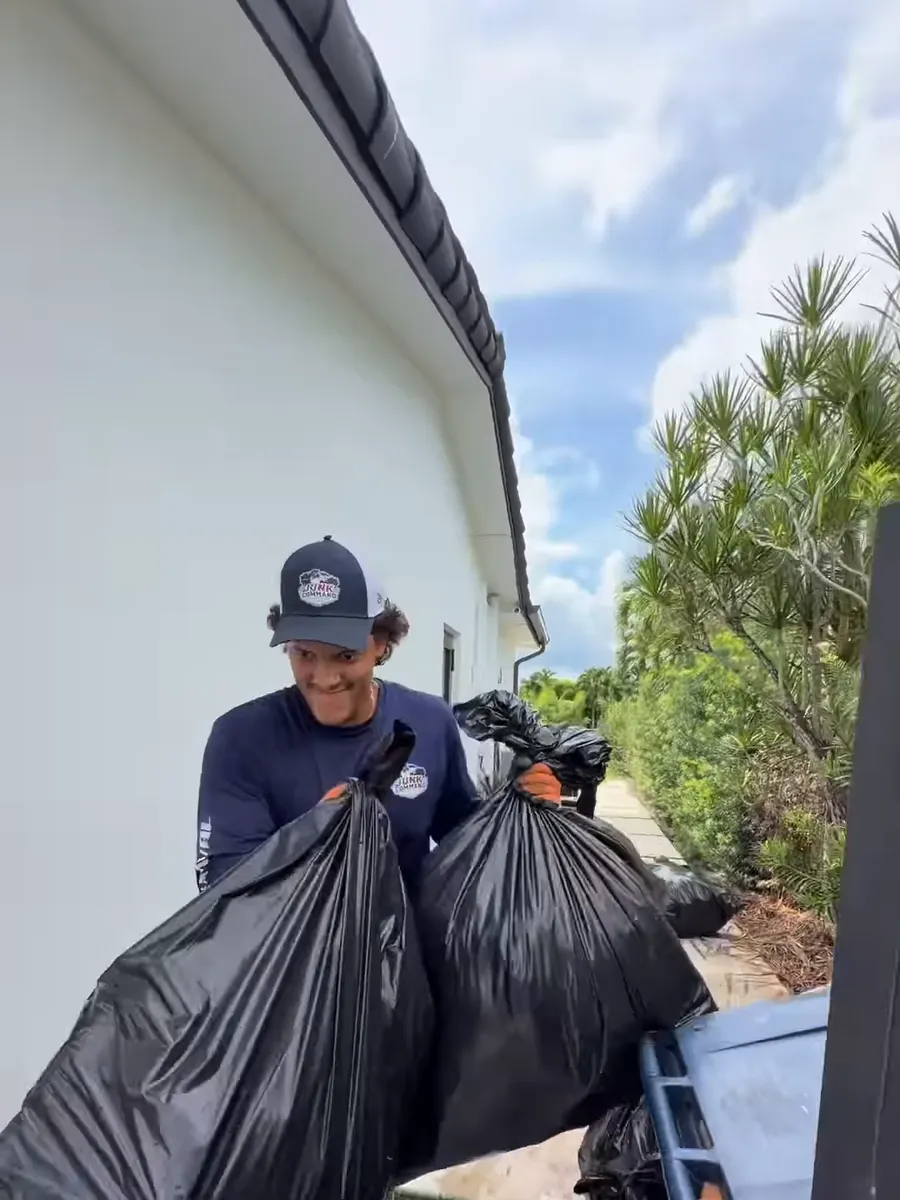
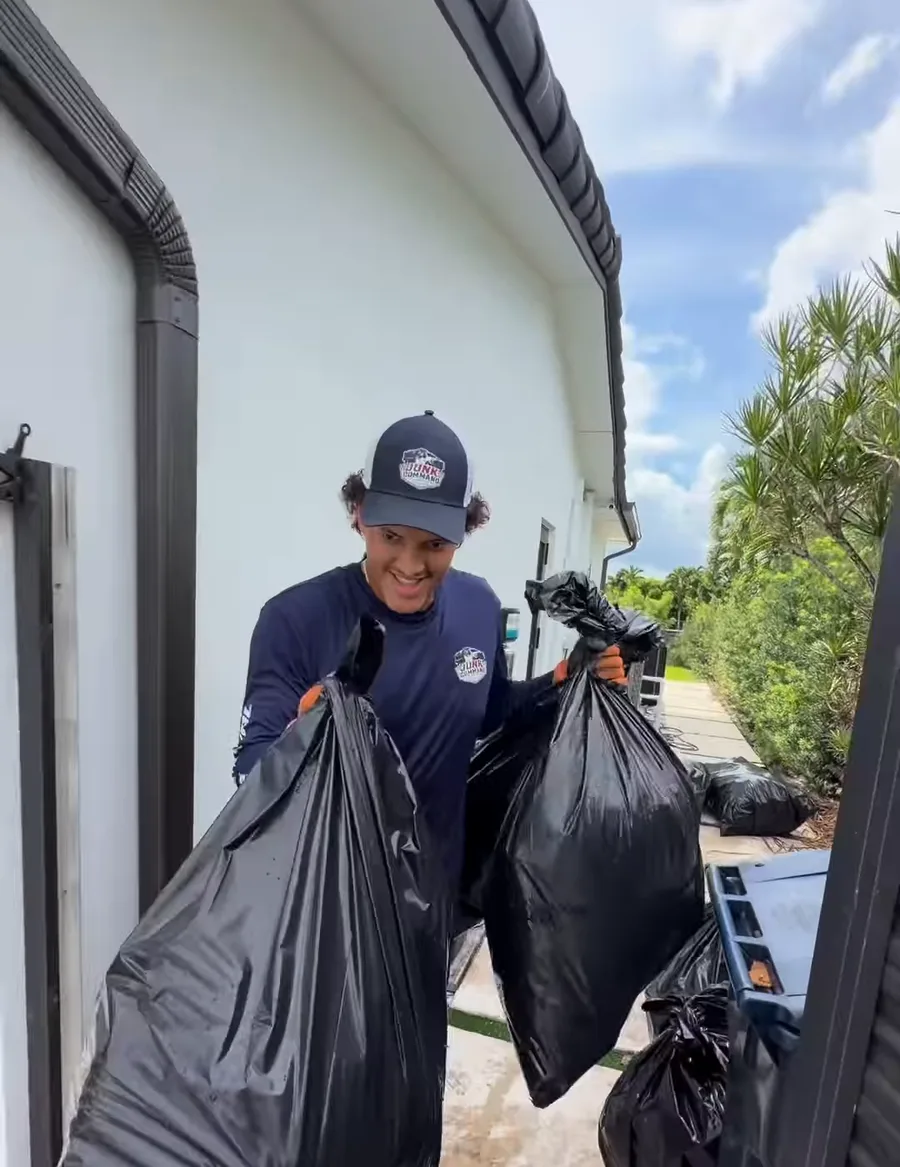
Swap crew photo for a sharper frame; add GitHub Pages deploy workflow
Claude-Session: https://claude.ai/code/session_016NWKdDnGwFJJaj9k9CUxr1

diff --git a/index.html b/index.html
@@ -361,7 +361,7 @@ body.paused *,body.paused *::before,body.paused *::after{animation-play-state:pa
         <h2 class="h2 rv" id="haul-h">If it fits on the truck, it's gone.</h2>
         <p class="intro rv rv-d1">Point at it. We carry it out of the garage, the backyard, or the upstairs bedroom and drive it away.</p>
         <figure class="haul-photo rv rv-d2">
-          <img src="assets/job-crew.webp" width="900" height="1200" loading="lazy" alt="A Junk Command crew member smiling while carrying two full trash bags down a side yard">
+          <img src="assets/job-crew.webp" width="900" height="1167" loading="lazy" alt="A Junk Command crew member smiling while carrying two full trash bags down a side yard">
           <figcaption>Two bags a trip, every trip.</figcaption>
         </figure>
       </div>
